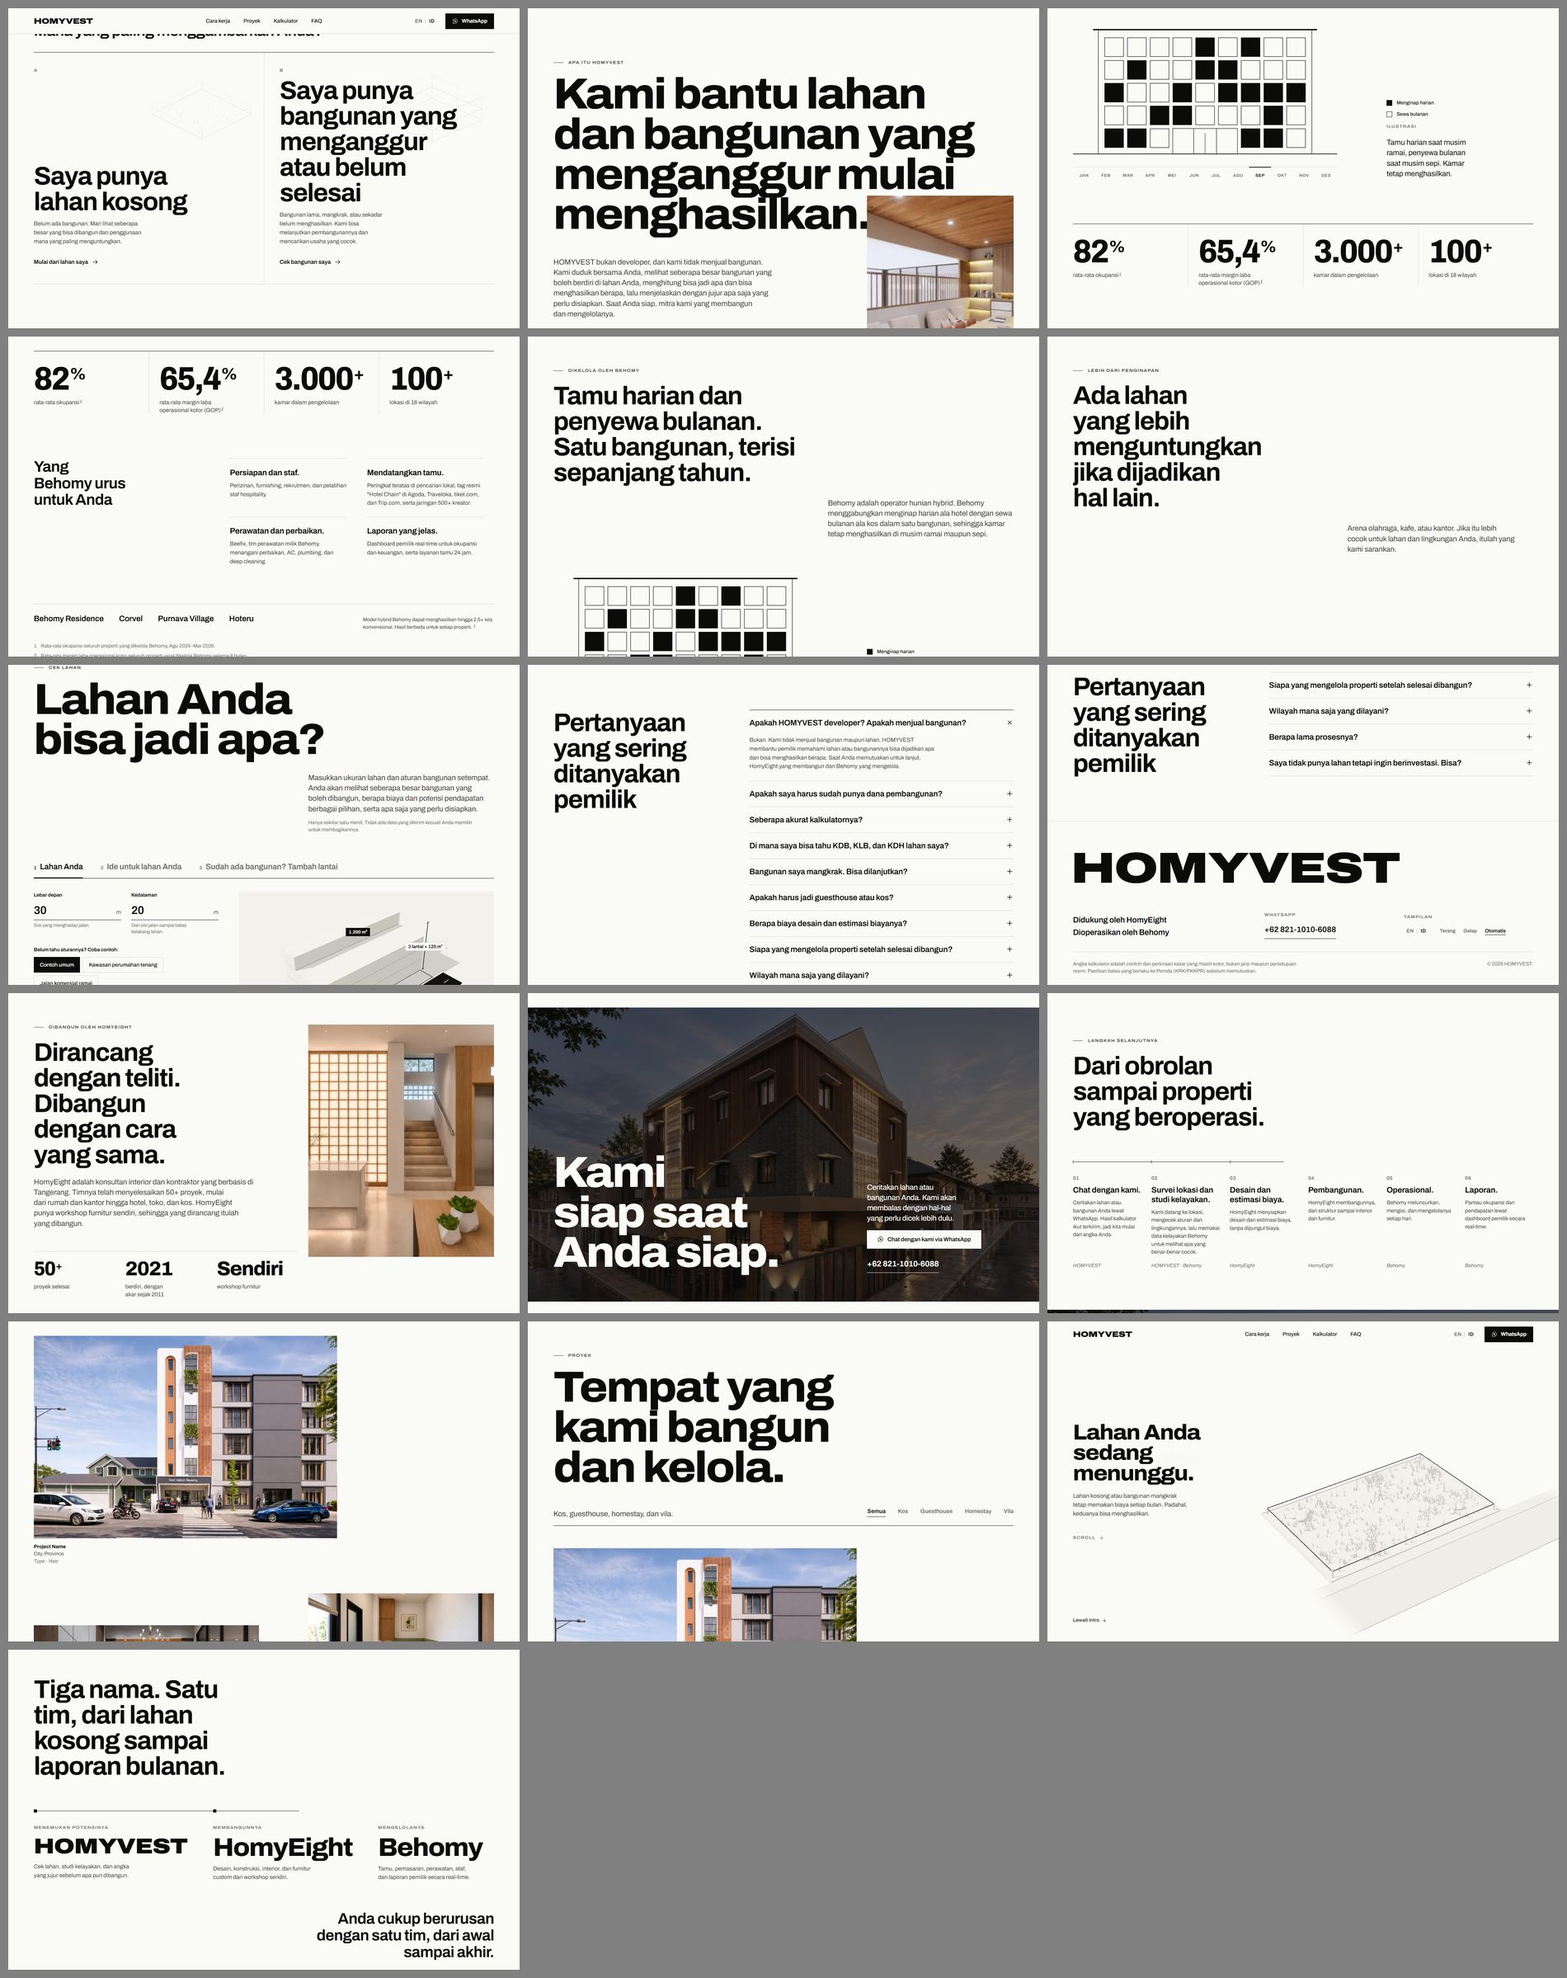
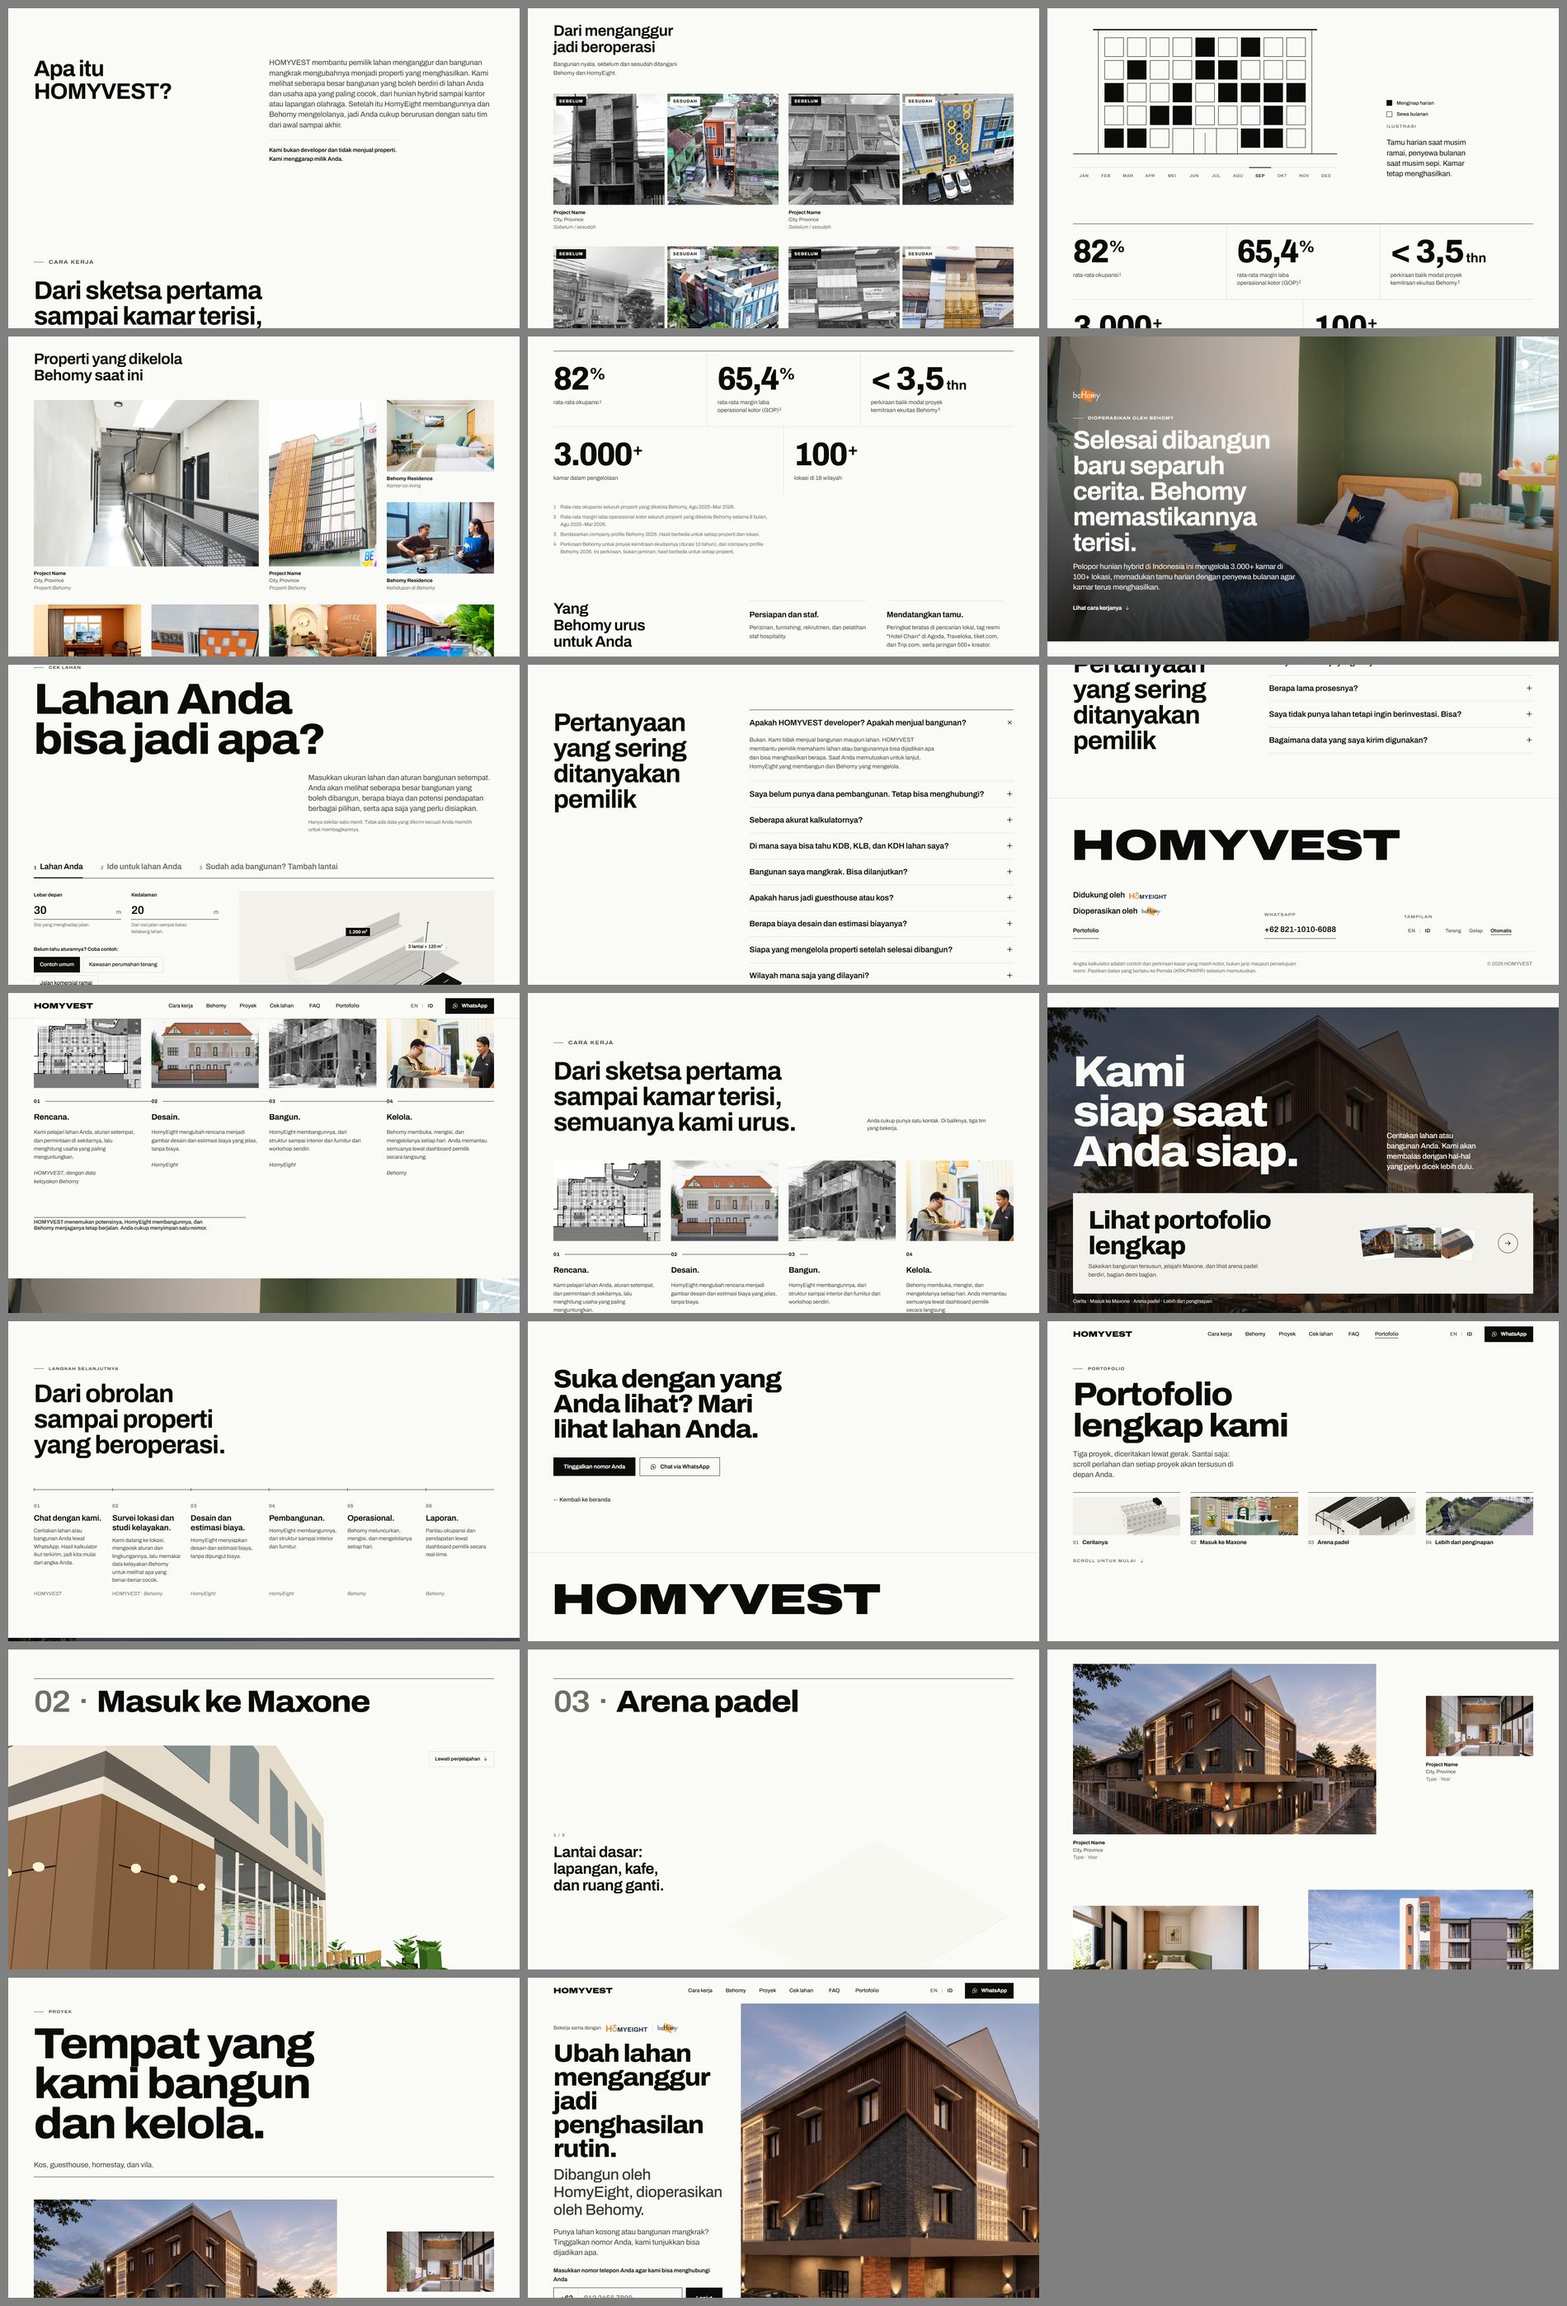
Final checks: floating WhatsApp never flashes over a pinned scene; contact sheets regenerated
- The floating button also hides while a pinned stage covers the screen (it showed
  for a moment at the first and last pixel of each pin)
- Stale first-build 3D sheets (homyeight, beyond) removed; sheets regenerated for
  the current site
- Report: what was reviewed, the fallback and dev-server checks

Verified at HEAD: npm run test 116, typecheck, build, e2e 146 passed (10 device
skips); npm run dev serves both pages cleanly; a build with the env file present
and blank VITE_SUPABASE_* contains no project ref; supabase/ identical to the kit;
calculator formulas unchanged since b573b8e.

diff --git a/src/components/layout/FloatingWhatsApp.jsx b/src/components/layout/FloatingWhatsApp.jsx
@@ -33,11 +33,23 @@ export default function FloatingWhatsApp() {
     };
   }, []);
 
+  // A pinned scene's stage fills the screen from the first pixel of its pin to the last. The pinned count above
+  // only flips once ScrollTrigger calls the scene active, which misses those two edge positions, so the stage's
+  // own position is checked too and the button never flashes over a scene.
+  const [overScene, setOverScene] = useState(false);
+
   useEffect(() => {
     const onScroll = () => {
       const hero = document.querySelector('[data-hero]');
       const end = hero ? hero.offsetTop + hero.offsetHeight - window.innerHeight * 0.5 : 400;
       setPastHero(window.scrollY > end);
+      const h = window.innerHeight;
+      setOverScene(
+        [...document.querySelectorAll('[data-pinned]')].some((el) => {
+          const r = el.getBoundingClientRect();
+          return r.top <= 1 && r.bottom >= h - 1;
+        }),
+      );
     };
     onScroll();
     window.addEventListener('scroll', onScroll, { passive: true });
@@ -50,7 +62,7 @@ export default function FloatingWhatsApp() {
     };
   }, []);
 
-  const show = pastHero && !pinned && !inputFocused && !fieldFocused && !footerVisible && !menuOpen && !funnelOpen;
+  const show = pastHero && !pinned && !overScene && !inputFocused && !fieldFocused && !footerVisible && !menuOpen && !funnelOpen;
   return (
     <a
       className="fab"

diff --git a/docs/REPORT_U01.md b/docs/REPORT_U01.md
@@ -158,7 +158,12 @@ The Supabase client and the funnel panel load only when someone starts the form.
   - **`secrets`.**
   - **`a11y`:** now also covers the portfolio page and the funnel's steps 2 and 3.
 - **Typecheck, build, and `node scripts/check-secrets.mjs --all`:** clean.
-- **Screenshots** of both pages at 360, 390, 768, 844 × 390, 1440 and 1920 px, in light and dark and in English and Indonesian, plus every funnel state, were reviewed (`npm run shots`: 64 runs). At 414 px both pages were checked for sideways overflow in both languages. Desktop (1440 px) before and after the phone pass: identical.
+- **Screenshots:** `npm run shots` (64 runs) captured both pages at 390, 768, 1440 and 1920 px in light and dark, English and Indonesian, every funnel state, and the 3D scenes at their key moments. Contact sheets are in `qa/screenshots/sheets/`.
+  - **I reviewed:** every funnel state; the main page at 360 (Indonesian), 390 (light and dark), 768, 844 × 390, 1440 (light and dark) and 1920 px; the phone sections in dark Indonesian for both pages; the Maxone walkthrough (desktop, dark) and the story (phone, dark) frame by frame; and the portfolio page on phones.
+  - **The portfolio agent also reviewed** its page at 360, 390, 768 and 844 × 390, in dark and in Indonesian.
+  - **414 px:** checked on both pages for sideways overflow, in both languages.
+- **Fallbacks:** both pages with no WebGL and on the low tier load with a clean console. The portfolio shows its static or render-led versions.
+- **Dev server:** `npm run dev` serves both pages with a clean console and no broken images. Its redirects work, and nothing is sent to Supabase while the pages are only viewed. Desktop (1440 px) before and after the phone pass: identical.
 - **Originals:** `renders/` and `assets-src/` are untouched (hash-checked).
 
 ## Decisions worth knowing
